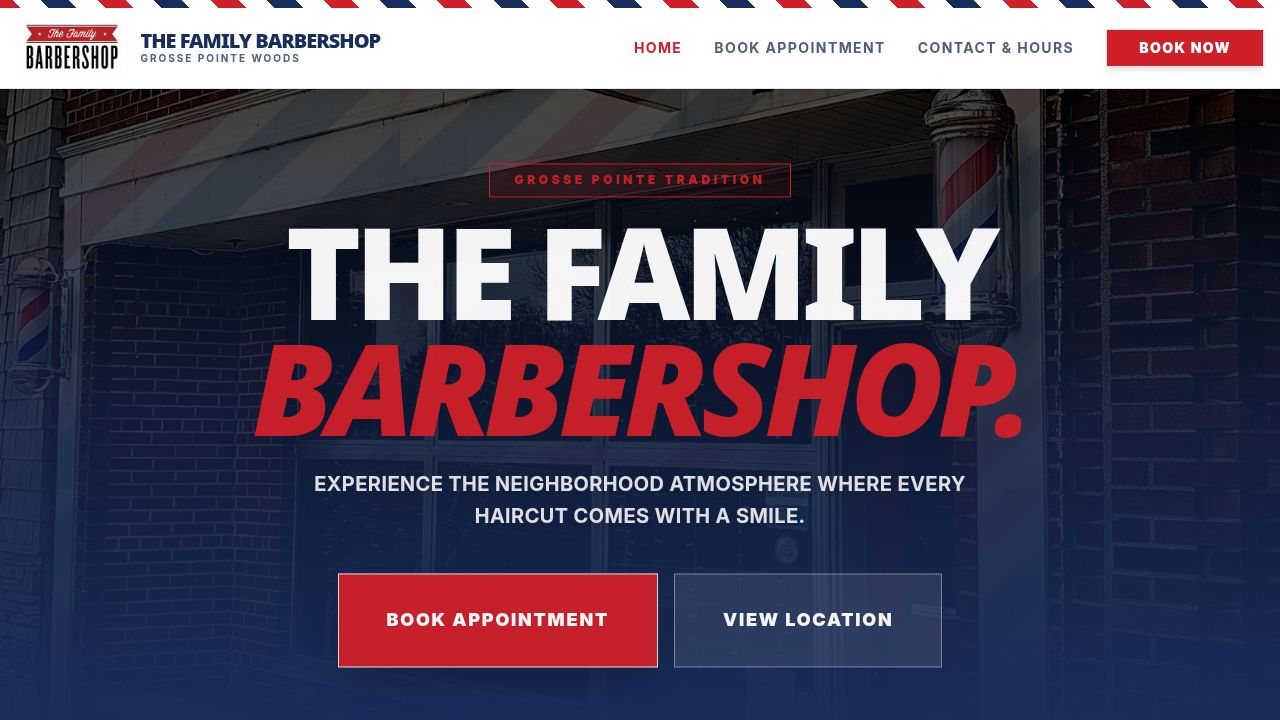
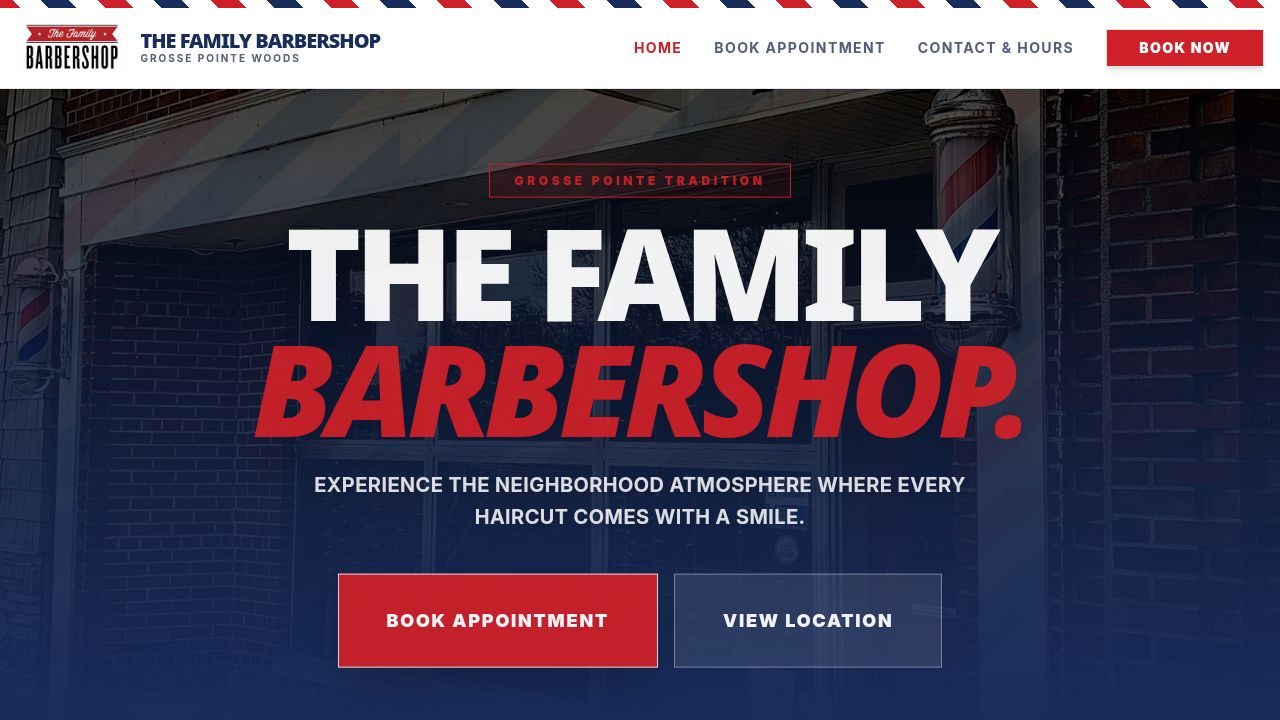
Update all booking buttons to link to a single web form
Modify multiple components (layout.tsx, home.tsx) to replace internal links to `/booking` with external links to `https://app.briancrossley.com/widget/booking/qyfrHvgNL27l6DS0tPsd` using `<a>` tags for all booking-related buttons.

Replit-Commit-Author: Agent
Replit-Commit-Session-Id: e42e4bba-59bc-4165-a6e2-c4fe3907ba51
Replit-Commit-Checkpoint-Type: full_checkpoint
Replit-Commit-Event-Id: 2cb16752-ac6a-4d3a-8ac3-14f00f22fa2d
Replit-Commit-Screenshot-Url: https://storage.googleapis.com/screenshot-production-us-central1/023ea911-4c78-4d15-bad5-dc334f281290/e42e4bba-59bc-4165-a6e2-c4fe3907ba51/sLVpXOJ
Replit-Helium-Checkpoint-Created: true

diff --git a/client/src/components/layout.tsx b/client/src/components/layout.tsx
@@ -43,9 +43,9 @@ export default function Layout({ children }: { children: React.ReactNode }) {
               </Link>
             ))}
             <Button asChild className="bg-primary hover:bg-primary/90 text-white font-black uppercase tracking-widest shadow-md hover:shadow-lg transition-all transform hover:-translate-y-0.5 rounded-none px-8">
-              <Link href="/booking">
+              <a href="https://app.briancrossley.com/widget/booking/qyfrHvgNL27l6DS0tPsd" target="_blank" rel="noopener noreferrer">
                 Book Now
-              </Link>
+              </a>
             </Button>
           </nav>
 
@@ -73,9 +73,9 @@ export default function Layout({ children }: { children: React.ReactNode }) {
               ))}
               <div className="pt-4">
                 <Button asChild className="w-full bg-primary text-lg h-12 rounded-none uppercase font-black tracking-widest" onClick={() => setIsOpen(false)}>
-                  <Link href="/booking">
+                  <a href="https://app.briancrossley.com/widget/booking/qyfrHvgNL27l6DS0tPsd" target="_blank" rel="noopener noreferrer">
                     Book an Appointment
-                  </Link>
+                  </a>
                 </Button>
               </div>
             </div>

diff --git a/client/src/pages/home.tsx b/client/src/pages/home.tsx
@@ -54,9 +54,9 @@ export default function Home() {
             </p>
             <div className="flex flex-col sm:flex-row gap-4 justify-center items-center">
               <Button asChild size="lg" className="bg-primary hover:bg-primary/90 text-white text-lg px-12 py-8 rounded-none shadow-2xl transition-all hover:-translate-y-1 w-full sm:w-auto font-black uppercase tracking-widest">
-                <Link href="/booking">
+                <a href="https://app.briancrossley.com/widget/booking/qyfrHvgNL27l6DS0tPsd" target="_blank" rel="noopener noreferrer">
                   Book Appointment
-                </Link>
+                </a>
               </Button>
               <Button asChild size="lg" variant="outline" className="border-white/40 bg-white/10 text-white hover:bg-white/20 text-lg px-12 py-8 backdrop-blur-md w-full sm:w-auto rounded-none font-black uppercase tracking-widest">
                 <Link href="/contact">
@@ -201,9 +201,9 @@ export default function Home() {
         <div className="container mx-auto px-4 text-center relative z-10">
           <h2 className="text-5xl md:text-8xl font-display font-black text-white mb-12 uppercase tracking-tighter">Fresh Cut?</h2>
           <Button asChild size="lg" className="bg-white text-primary hover:bg-white/90 font-black text-2xl px-16 py-10 shadow-2xl rounded-none uppercase tracking-widest">
-            <Link href="/booking">
+            <a href="https://app.briancrossley.com/widget/booking/qyfrHvgNL27l6DS0tPsd" target="_blank" rel="noopener noreferrer">
               Book Appointment Now
-            </Link>
+            </a>
           </Button>
           <p className="mt-10 text-white/80 font-black uppercase tracking-[0.3em] text-sm">Walk-ins always welcome</p>
         </div>